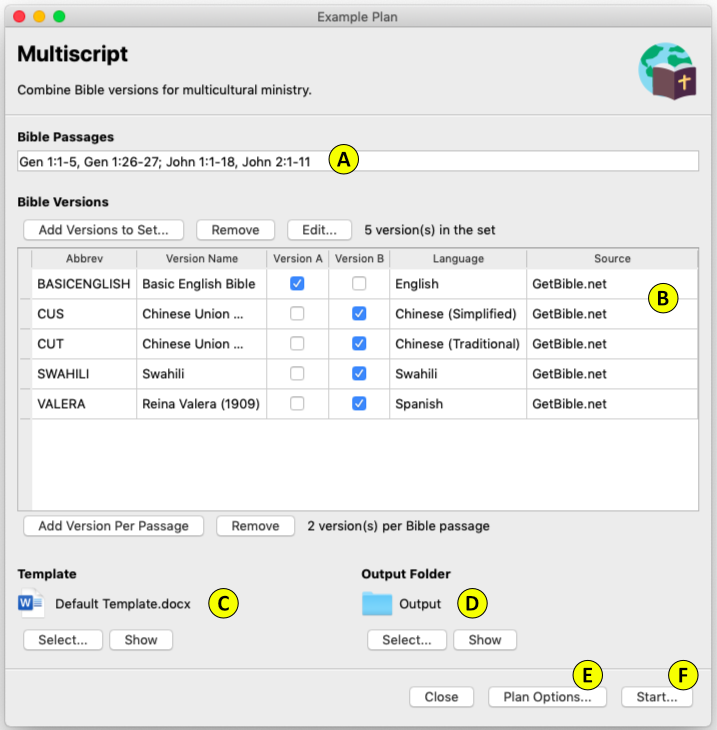
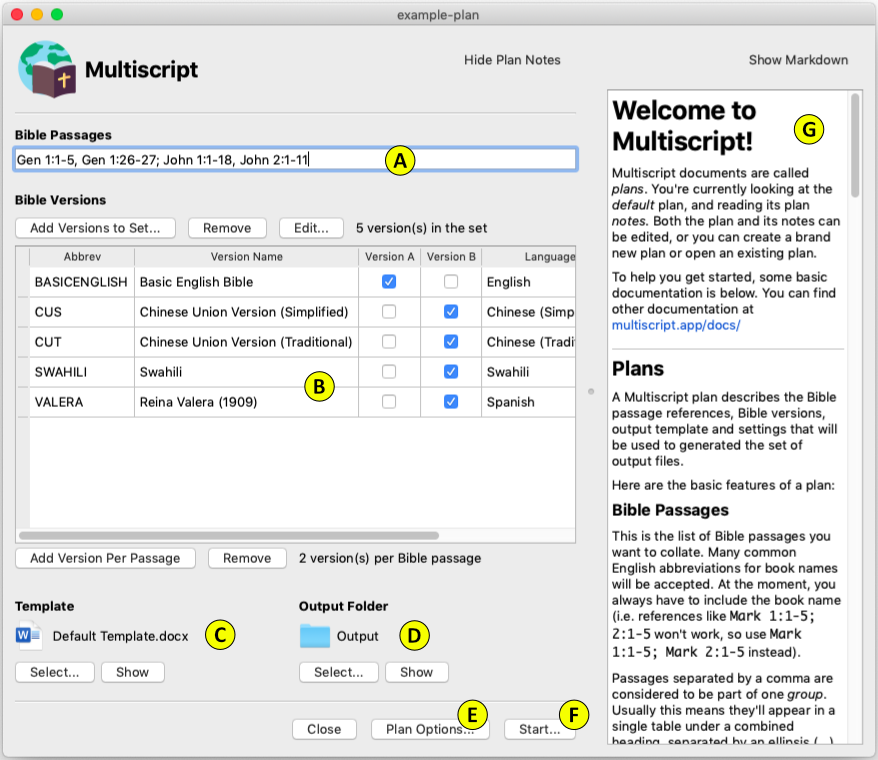
Update docs for release 0.11.0

Changed region(s): [[0.0, 0.0, 1.0, 1.0], [0.3375, 0.9342, 0.3989, 0.9644]]

diff --git a/docs/index.md b/docs/index.md
@@ -1,5 +1,5 @@
 # Documentation
-Multiscript documents are called *plans*. A Multiscript plan file describes the Bible passage references, Bible versions, output template and settings that will be used to generated the set of output files.
+Multiscript documents are called *plans*. A Multiscript plan describes the Bible passage references, Bible versions, output template and settings that will be used to generated the set of output files.
 
 Here's an example Multiscript plan ([which you can download here](example-plan.mplan)):
 
@@ -8,7 +8,7 @@ Here's an example Multiscript plan ([which you can download here](example-plan.m
 Here are the basic features of a plan:
 
 ## **A** - Bible Passages
-This is the list of Bible passages you want to collate. Many common English abbreviations for book names will be accepted. At the moment, you always have to include the book name (i.e. references like Mark 1:1-5; 2:1-5 won't work – use Mark 1:1-5; Mark 2:1-5 instead).
+This is the list of Bible passages you want to collate. Many common English abbreviations for book names will be accepted. At the moment, you always have to include the book name (i.e. references like `Mark 1:1-5; 2:1-5` won't work, so use `Mark 1:1-5; Mark 2:1-5` instead).
 
 Passages separated by a comma are considered to be part of one *group*. Usually this means they'll appear in a single table under a combined heading, separated by continuation text (which by default is an ellipsis).
 
@@ -28,6 +28,20 @@ You can double-click on any version to edit its labels, preferred font etc.
 ## **C** - Template
 This is the template document that Multiscript will use to generate each output file.
 
+## **D** - Output Folder
+This is the folder in which the output files will be generated.
+
+## **E** - Plan Options
+Click this button to adjust various settings specific to this plan file.
+
+## **F** - Start
+Click this button to execute the plan, which will generate the output files.
+
+## **G** - Notes
+You can write any notes you wish to include with the plan here. (The notes are stored in Markdown format.)
+
+## Editing a Template
+Here's some help for editing a template document:
 ### Tags
 
 The template file should include any of the following tags. Around the tags you can include any other content that you like.
@@ -61,12 +75,3 @@ If your template is a Microsoft Word document, Multiscript will attempt to apply
 
 ### Fonts
 You can specify a font name and font size for each version, that will be applied to the Bible text (overriding the MSC_Paragraph style). The [Google Noto project](https://fonts.google.com/noto) has fonts that cover a large number of the world's languages and scripts.
-
-## **D** - Output Folder
-This is the folder in which the output files will be generated.
-
-## **E** - Plan Options
-Click this button to adjust various settings specific to this plan file.
-
-## **F** - Start
-Click this button to execute the plan, which will generate the output files.
